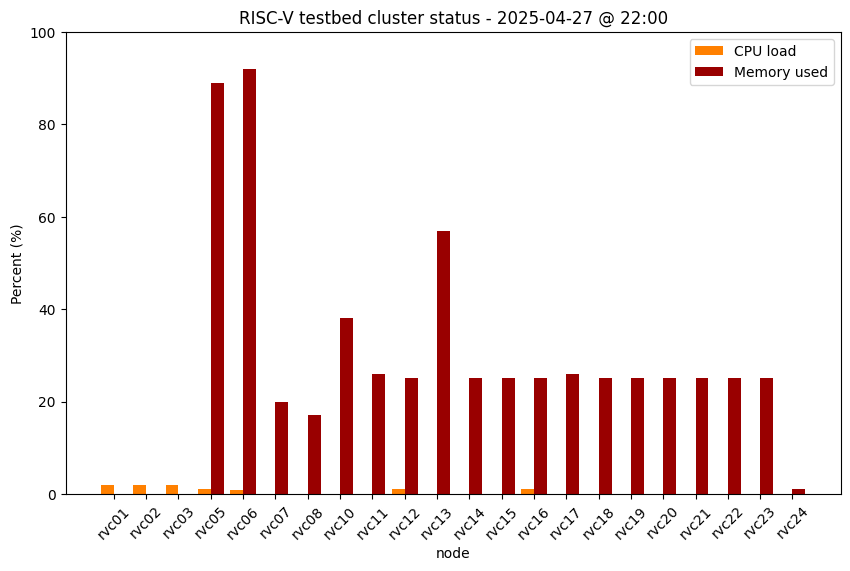
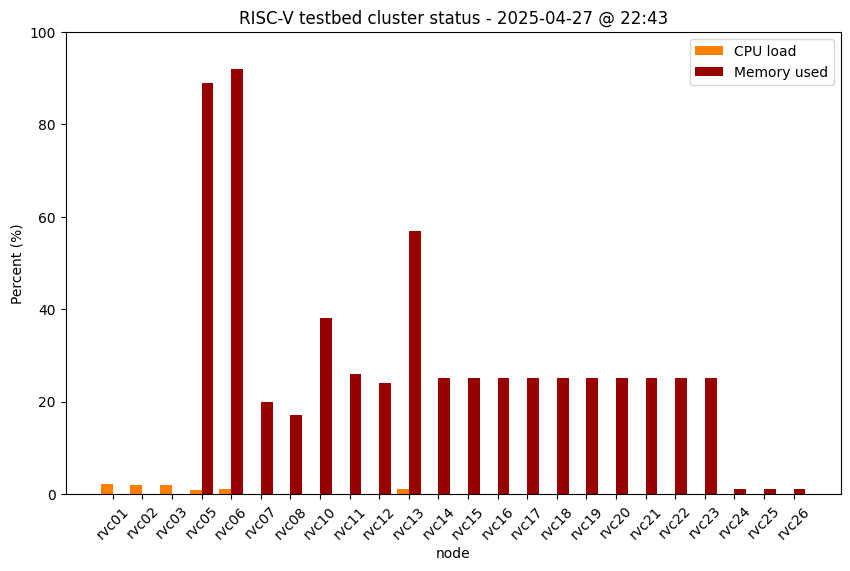
Update cluster status

Changed region(s): [[0.1224, 0.1191, 0.9482, 0.9527], [0.7647, 0.0, 0.7953, 0.0595]]

diff --git a/status.md b/status.md
@@ -37,6 +37,6 @@ permalink: /status/
 | StarFive VisionFive V2 #12 | rvc22 | 4 | 8GB | <img src="/images/on.png" alt="green light" width="10"/> up |
 | StarFive VisionFive V2 #13 | rvc23 | 4 | 8GB | <img src="/images/on.png" alt="green light" width="10"/> up |
 | Milk-V Pioneer #1 | rvc24 | 64 | 128GB | <img src="/images/on.png" alt="green light" width="10"/> up |
-| Milk-V Pioneer #2 | rvc25 | 64 | 128GB | <img src="/images/off.png" alt="red light" width="10"/> down |
-| Milk-V Pioneer #3 | rvc26 | 64 | 128GB | <img src="/images/off.png" alt="red light" width="10"/> down |
+| Milk-V Pioneer #2 | rvc25 | 64 | 128GB | <img src="/images/on.png" alt="green light" width="10"/> up |
+| Milk-V Pioneer #3 | rvc26 | 64 | 128GB | <img src="/images/on.png" alt="green light" width="10"/> up |
 
